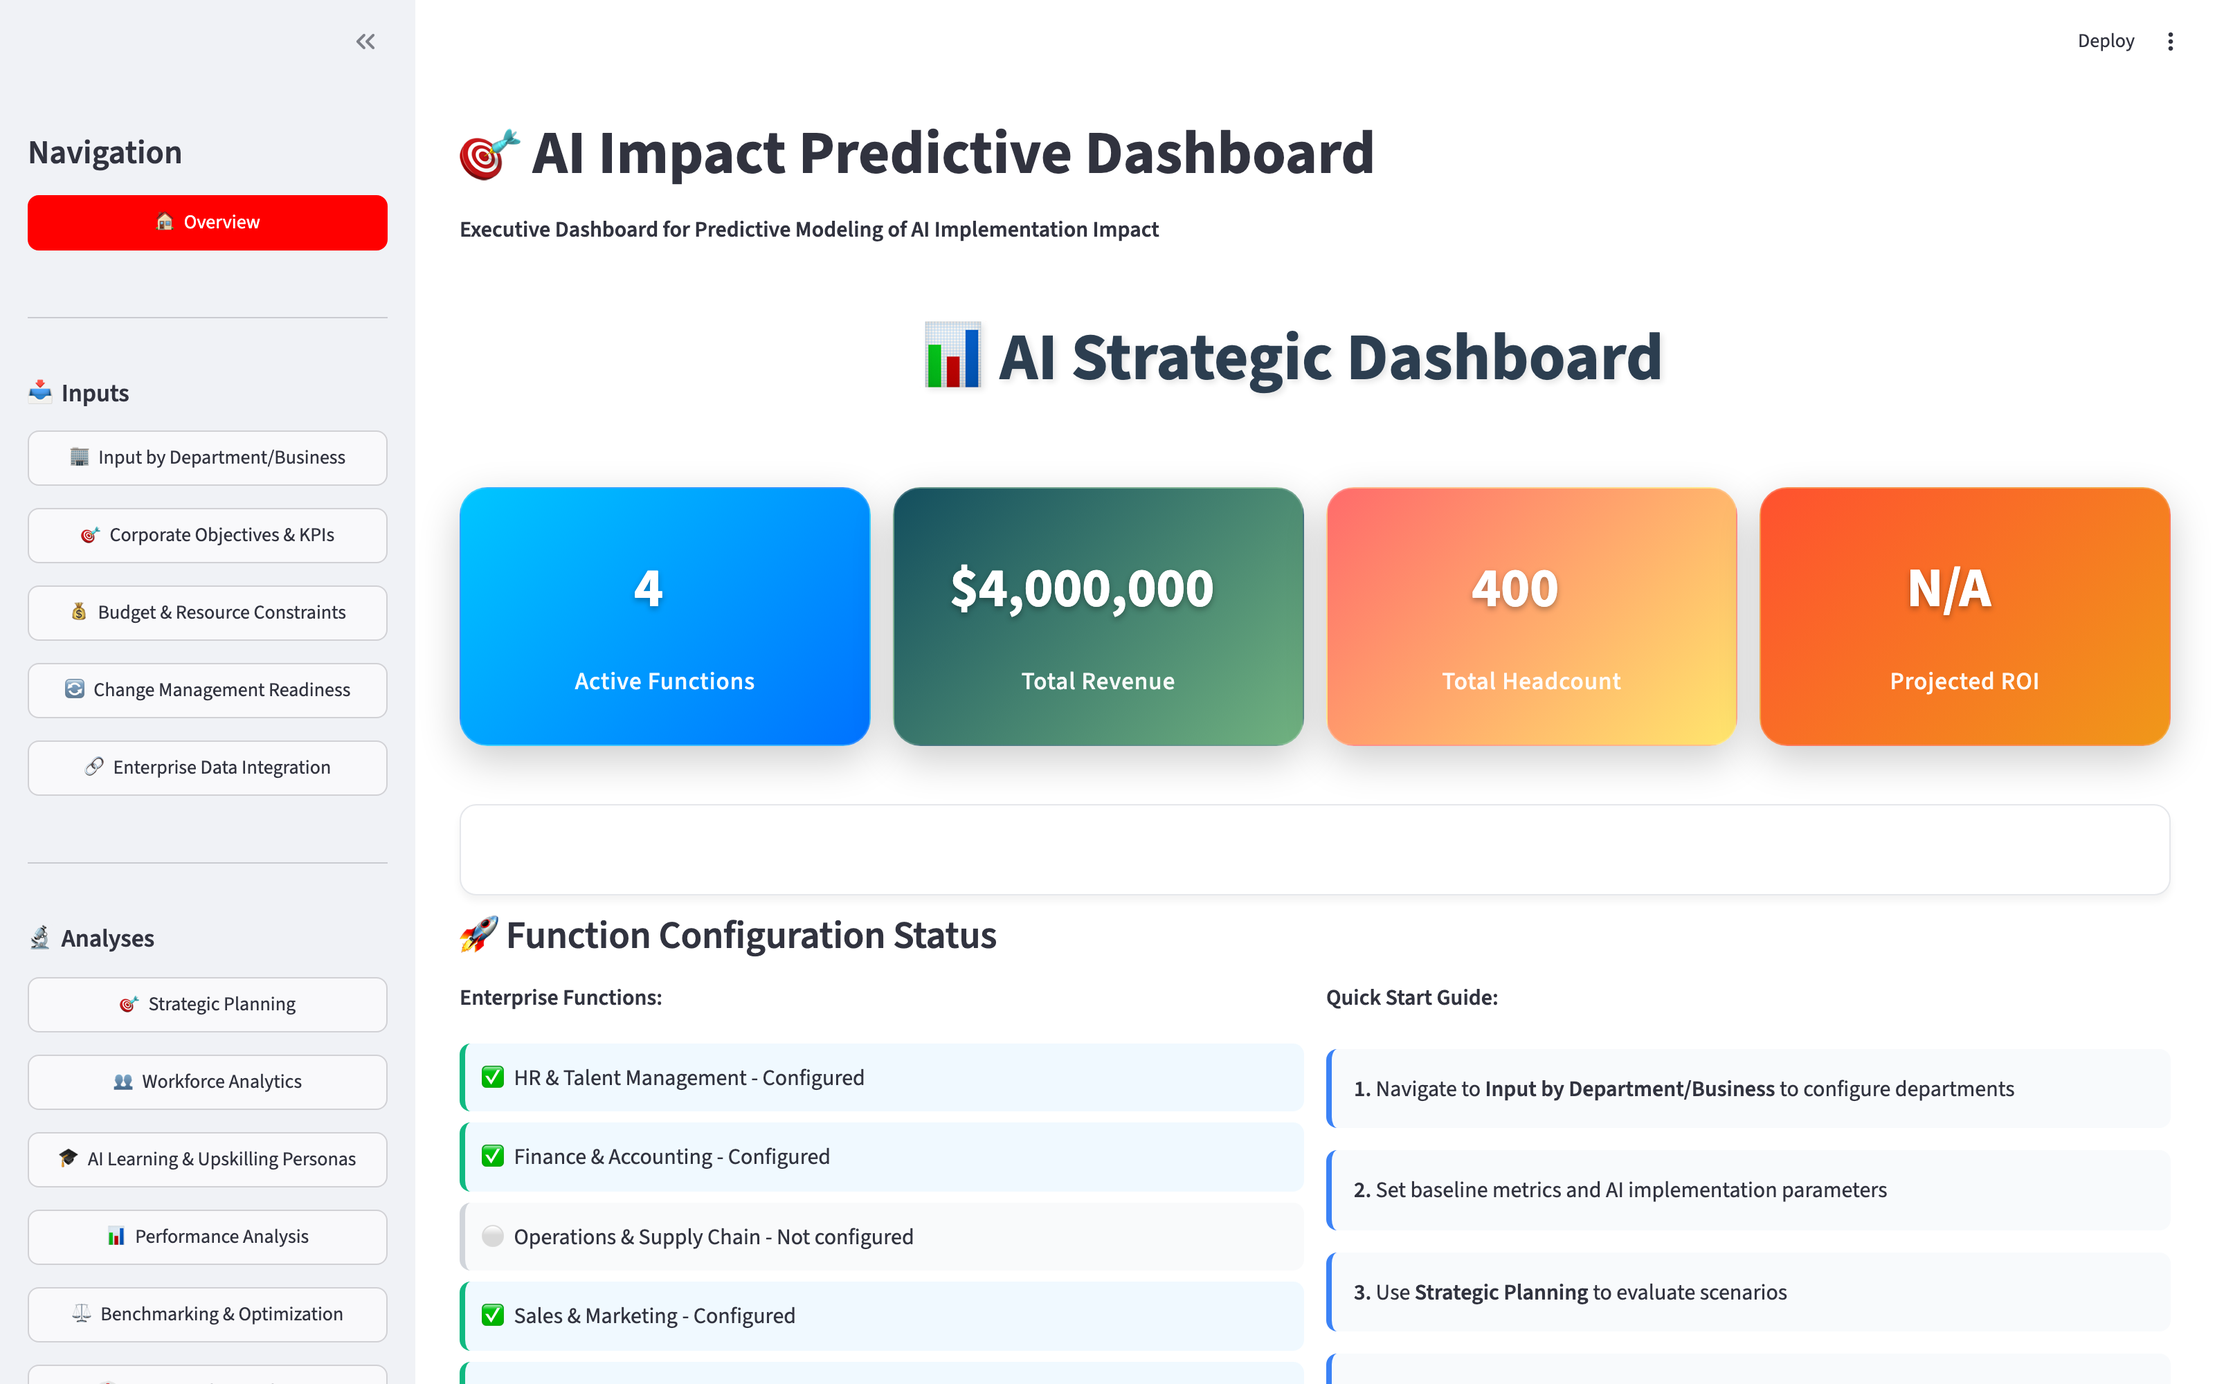
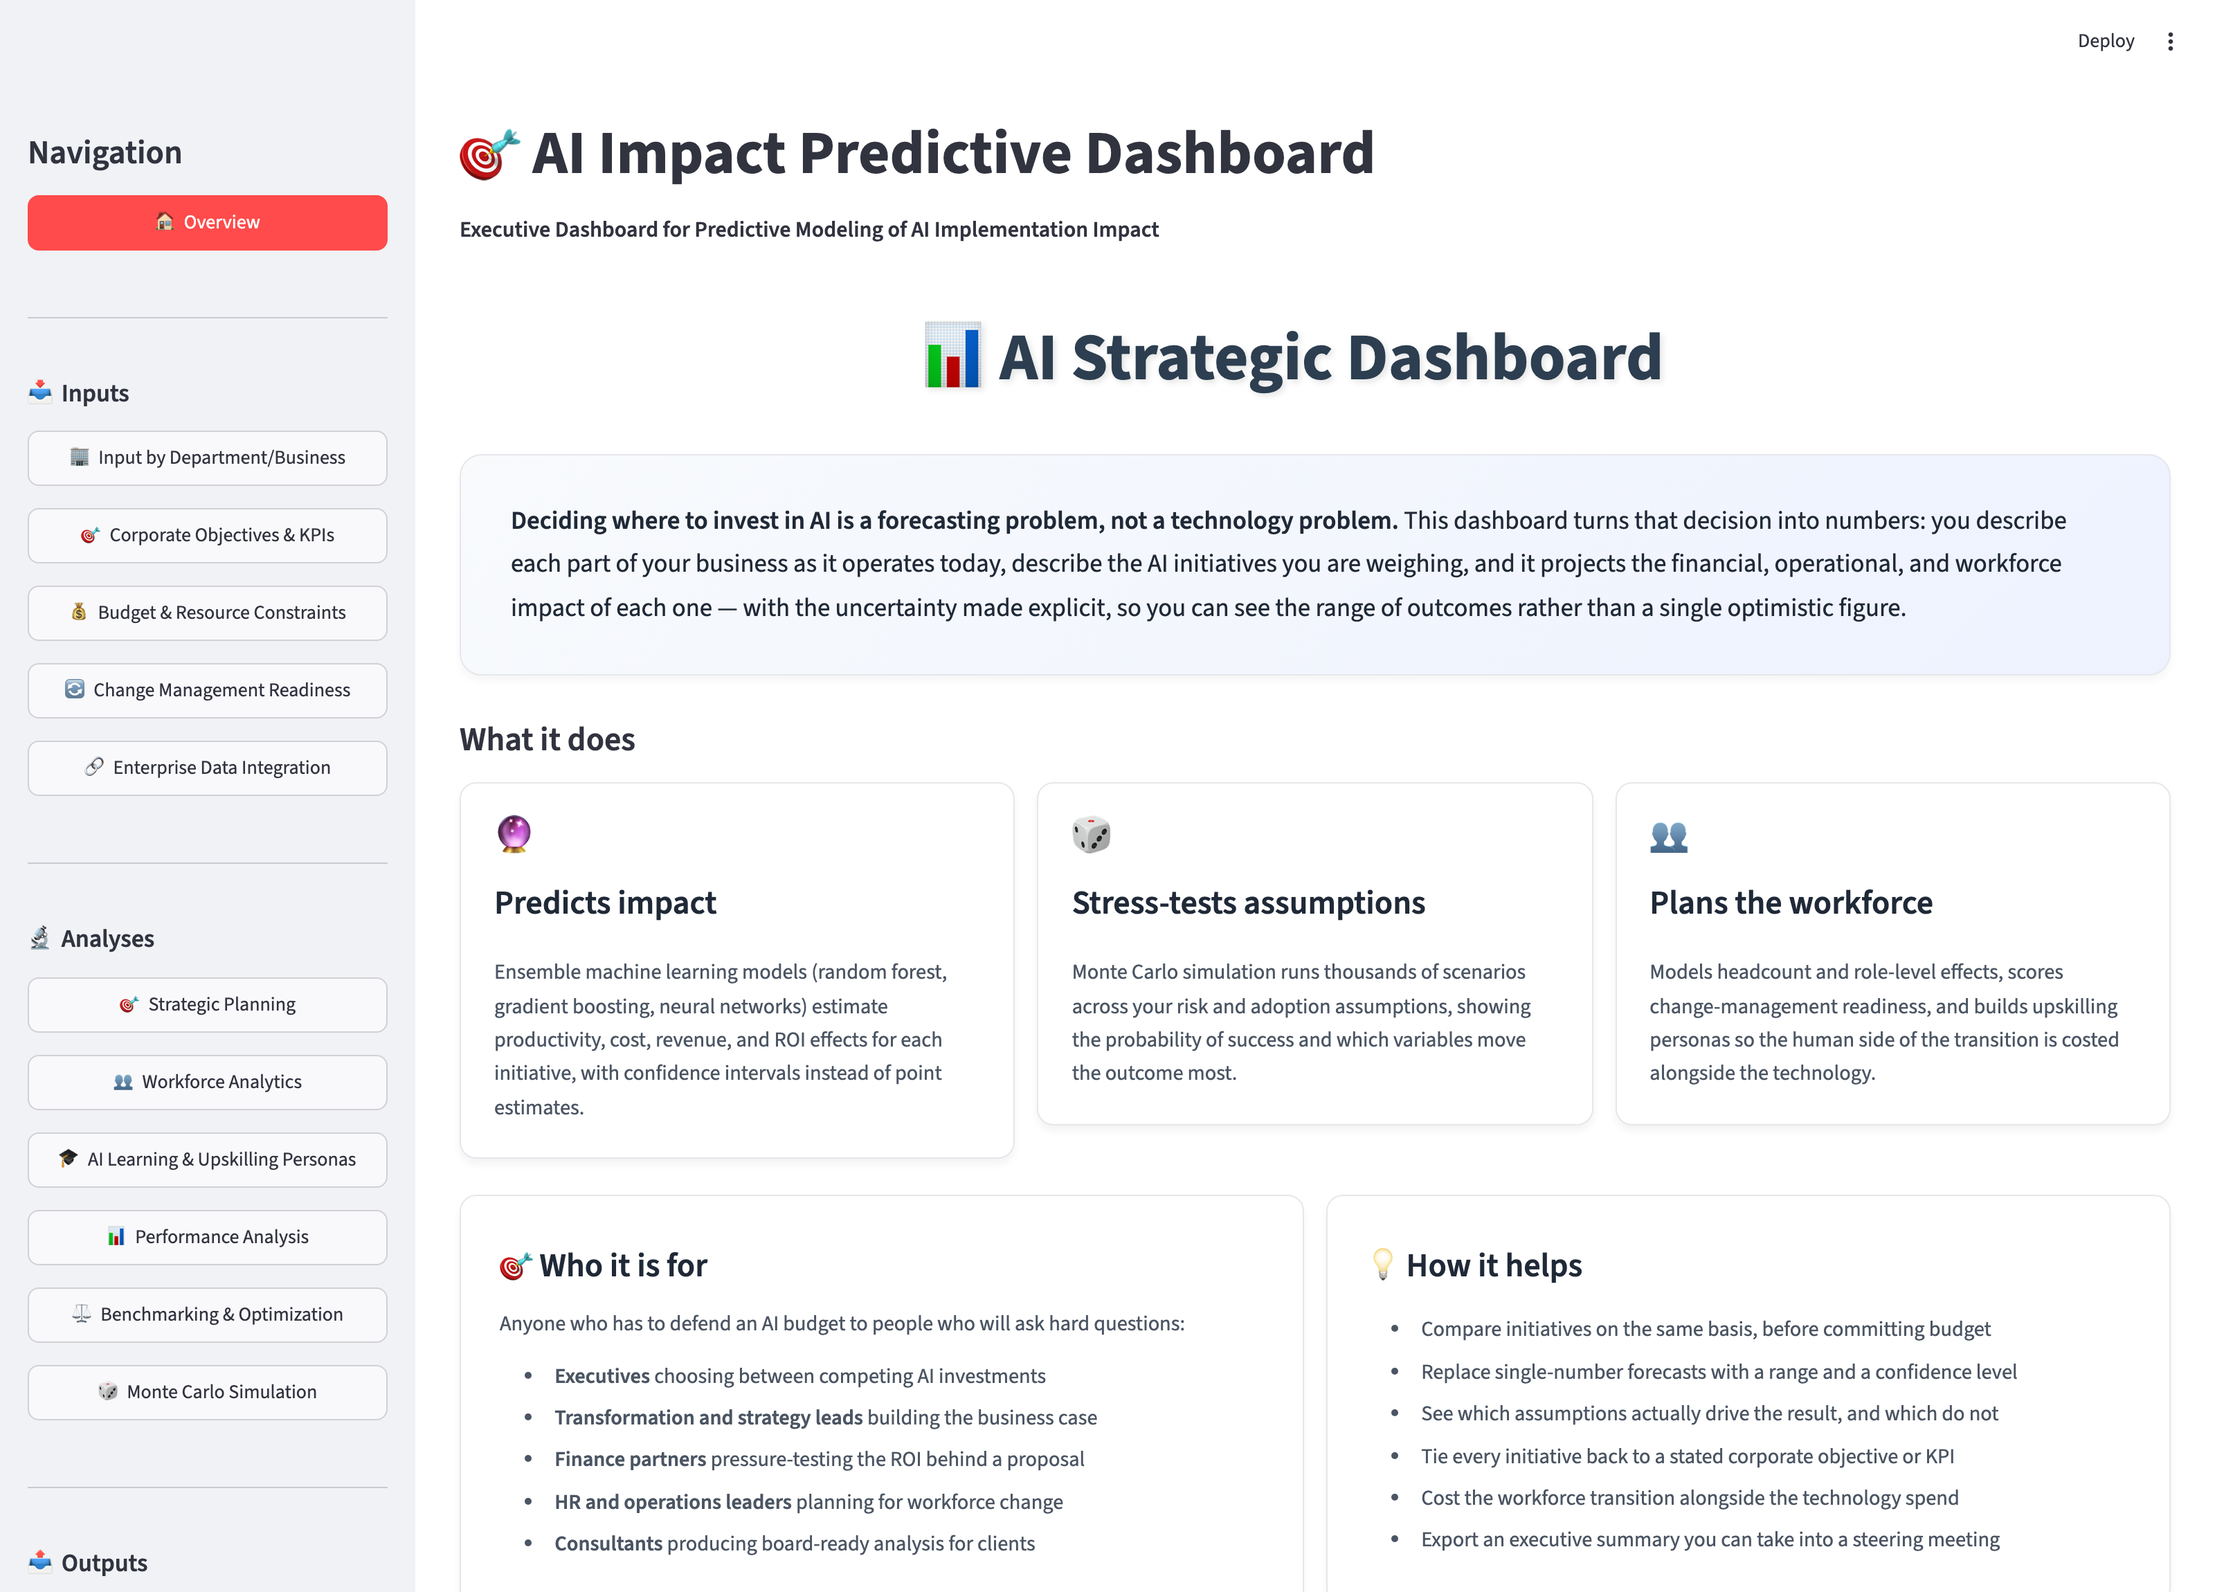
Explain the dashboard on the overview page
A first-time visitor landed on a title, four zeroed metric cards, and a list of
unconfigured functions, with nothing saying what the tool is or why the numbers
were empty. Add an introduction above the metrics covering what the dashboard
does, who it is for, how it helps, and how to work through it, plus a note that
saving a department with its default values is enough to populate everything.

The old Quick Start Guide said the same thing less completely, so drop it and
give the 16-function status list both columns instead of one narrow one, with a
count of how many are configured.

Also remove four orphaned HTML wrappers. Each opened a styled <div> in its own
st.markdown call, which Streamlit closes at the end of that block, so the
matching </div> was dropped and the opener rendered as an empty bordered box
above Function Configuration Status and Performance Overview. Raw HTML cannot
wrap native widgets this way, so the wrappers only ever produced the artifact.

Verified: all 15 navigation targets and their tabs render with 0 server-side
tracebacks, and no raw HTML leaks into the page text.

diff --git a/app.py b/app.py
@@ -297,6 +297,130 @@ def main():
     elif page == "Executive Summary":
         show_executive_summary()
 
+def show_overview_introduction():
+    """Explain what the dashboard is, who it serves, and how to work through it.
+
+    This is the first thing a new visitor sees, and the metric cards below read
+    as zeroes until functions are configured, so the context belongs up front.
+    """
+
+    st.markdown("""
+    <div style="background: linear-gradient(135deg, #f8fafc 0%, #eef2ff 100%);
+                padding: 2rem 2.25rem; border-radius: 16px; border: 1px solid #e5e7eb;
+                box-shadow: 0 4px 6px rgba(0, 0, 0, 0.04); margin-bottom: 1.5rem;">
+        <p style="margin: 0; font-size: 1.15rem; line-height: 1.7; color: #1f2937;">
+            <strong>Deciding where to invest in AI is a forecasting problem, not a technology problem.</strong>
+            This dashboard turns that decision into numbers: you describe each part of your business as it
+            operates today, describe the AI initiatives you are weighing, and it projects the financial,
+            operational, and workforce impact of each one &mdash; with the uncertainty made explicit, so you
+            can see the range of outcomes rather than a single optimistic figure.
+        </p>
+    </div>
+    """, unsafe_allow_html=True)
+
+    st.markdown("#### What it does")
+
+    capability_cards = [
+        ("🔮", "Predicts impact",
+         "Ensemble machine learning models (random forest, gradient boosting, neural networks) "
+         "estimate productivity, cost, revenue, and ROI effects for each initiative, with "
+         "confidence intervals instead of point estimates."),
+        ("🎲", "Stress-tests assumptions",
+         "Monte Carlo simulation runs thousands of scenarios across your risk and adoption "
+         "assumptions, showing the probability of success and which variables move the outcome most."),
+        ("👥", "Plans the workforce",
+         "Models headcount and role-level effects, scores change-management readiness, and builds "
+         "upskilling personas so the human side of the transition is costed alongside the technology."),
+    ]
+
+    cols = st.columns(3)
+    for col, (icon, title, body) in zip(cols, capability_cards):
+        with col:
+            st.markdown(f"""
+            <div style="background: white; padding: 1.5rem; border-radius: 12px; height: 100%;
+                        border: 1px solid #e5e7eb; box-shadow: 0 4px 6px rgba(0, 0, 0, 0.05);">
+                <div style="font-size: 1.75rem; line-height: 1;">{icon}</div>
+                <h4 style="margin: 0.75rem 0 0.5rem 0; color: #1f2937;">{title}</h4>
+                <p style="margin: 0; color: #4b5563; font-size: 0.95rem; line-height: 1.6;">{body}</p>
+            </div>
+            """, unsafe_allow_html=True)
+
+    st.markdown("<br>", unsafe_allow_html=True)
+
+    audience_col, value_col = st.columns(2)
+
+    with audience_col:
+        st.markdown("""
+        <div style="background: white; padding: 1.75rem; border-radius: 12px; height: 100%;
+                    border: 1px solid #e5e7eb; box-shadow: 0 4px 6px rgba(0, 0, 0, 0.05);">
+            <h4 style="margin-top: 0; color: #1f2937;">🎯 Who it is for</h4>
+            <p style="margin: 0 0 0.75rem 0; color: #4b5563; font-size: 0.95rem; line-height: 1.6;">
+                Anyone who has to defend an AI budget to people who will ask hard questions:
+            </p>
+            <ul style="margin: 0; padding-left: 1.1rem; color: #4b5563; font-size: 0.95rem; line-height: 1.8;">
+                <li><strong>Executives</strong> choosing between competing AI investments</li>
+                <li><strong>Transformation and strategy leads</strong> building the business case</li>
+                <li><strong>Finance partners</strong> pressure-testing the ROI behind a proposal</li>
+                <li><strong>HR and operations leaders</strong> planning for workforce change</li>
+                <li><strong>Consultants</strong> producing board-ready analysis for clients</li>
+            </ul>
+        </div>
+        """, unsafe_allow_html=True)
+
+    with value_col:
+        st.markdown("""
+        <div style="background: white; padding: 1.75rem; border-radius: 12px; height: 100%;
+                    border: 1px solid #e5e7eb; box-shadow: 0 4px 6px rgba(0, 0, 0, 0.05);">
+            <h4 style="margin-top: 0; color: #1f2937;">💡 How it helps</h4>
+            <ul style="margin: 0; padding-left: 1.1rem; color: #4b5563; font-size: 0.95rem; line-height: 1.8;">
+                <li>Compare initiatives on the same basis, before committing budget</li>
+                <li>Replace single-number forecasts with a range and a confidence level</li>
+                <li>See which assumptions actually drive the result, and which do not</li>
+                <li>Tie every initiative back to a stated corporate objective or KPI</li>
+                <li>Cost the workforce transition alongside the technology spend</li>
+                <li>Export an executive summary you can take into a steering meeting</li>
+            </ul>
+        </div>
+        """, unsafe_allow_html=True)
+
+    st.markdown("<br>", unsafe_allow_html=True)
+
+    st.markdown("#### How to use it")
+    st.markdown("""
+    <div style="background: white; padding: 1.75rem; border-radius: 12px;
+                border: 1px solid #e5e7eb; box-shadow: 0 4px 6px rgba(0, 0, 0, 0.05);">
+        <p style="margin: 0 0 1rem 0; color: #4b5563; font-size: 0.95rem; line-height: 1.6;">
+            Work down the sidebar in order. Each stage builds on the one before it, and the
+            metrics on this page fill in as you go. Nothing is required up front &mdash; every
+            input has a sensible default you can adjust later.
+        </p>
+        <ol style="margin: 0; padding-left: 1.2rem; color: #4b5563; font-size: 0.95rem; line-height: 1.9;">
+            <li><strong>Inputs</strong> &mdash; describe a department under
+                <em>Input by Department/Business</em>: headcount, revenue, costs, and current
+                productivity. Add the AI initiatives you are considering for it. Repeat for each
+                department you want in scope.</li>
+            <li><strong>Context</strong> &mdash; set what success means and what limits you, using
+                <em>Corporate Objectives &amp; KPIs</em>, <em>Budget &amp; Resource Constraints</em>,
+                and <em>Change Management Readiness</em>.</li>
+            <li><strong>Analyses</strong> &mdash; run <em>Strategic Planning</em> for scenarios,
+                <em>Monte Carlo Simulation</em> for the probability of hitting your targets,
+                <em>Workforce Analytics</em> for the people impact, and
+                <em>Benchmarking &amp; Optimization</em> to compare against industry norms.</li>
+            <li><strong>Outputs</strong> &mdash; review <em>Dynamic Visualizations</em> and generate an
+                <em>Executive Summary</em> to share.</li>
+        </ol>
+        <p style="margin: 1rem 0 0 0; color: #6b7280; font-size: 0.9rem; line-height: 1.6;">
+            Exploring rather than modelling your own organisation? Open
+            <em>Input by Department/Business</em>, pick any department, and save it with the
+            defaults already filled in &mdash; that is enough to light up the rest of the dashboard.
+        </p>
+    </div>
+    """, unsafe_allow_html=True)
+
+    st.markdown("<br>", unsafe_allow_html=True)
+    st.markdown("---")
+
+
 def show_overview():
     # Add modern background styling
     st.markdown("""
@@ -316,12 +440,14 @@ def show_overview():
     """, unsafe_allow_html=True)
     
     st.markdown("""
-    <h1 style="text-align: center; color: #2c3e50; font-size: 3rem; font-weight: 700; 
-               text-shadow: 2px 2px 4px rgba(0,0,0,0.1); margin-bottom: 2rem;">
+    <h1 style="text-align: center; color: #2c3e50; font-size: 3rem; font-weight: 700;
+               text-shadow: 2px 2px 4px rgba(0,0,0,0.1); margin-bottom: 1.5rem;">
         📊 AI Strategic Dashboard
     </h1>
     """, unsafe_allow_html=True)
-    
+
+    show_overview_introduction()
+
     # Modern metrics cards with gradient styling
     col1, col2, col3, col4 = st.columns(4)
     
@@ -364,69 +490,49 @@ def show_overview():
     
     st.markdown("<br>", unsafe_allow_html=True)
     
-    # Enhanced function status in styled cards
-    st.markdown("""
-    <div style="background: white; padding: 2rem; border-radius: 12px; 
-                box-shadow: 0 4px 6px rgba(0, 0, 0, 0.05); border: 1px solid #e5e7eb;">
-    """, unsafe_allow_html=True)
-    
     st.subheader("🚀 Function Configuration Status")
     
+    functions = ["HR & Talent Management", "Finance & Accounting", "Operations & Supply Chain",
+                "Sales & Marketing", "IT & Technology", "Customer Service", "Legal & Compliance", "R&D",
+                "Manufacturing & Production", "Quality Assurance", "Business Development", "Strategy & Planning",
+                "Risk Management", "Procurement", "Facilities Management", "Data & Analytics"]
+
+    configured_count = sum(1 for func in functions if func in st.session_state.baseline_data)
+    st.caption(
+        f"{configured_count} of {len(functions)} functions configured — "
+        "add one from **Input by Department/Business** in the sidebar."
+    )
+
+    def render_function_status(func):
+        """Render one function's configuration state as a styled row."""
+        if func in st.session_state.baseline_data:
+            background, border, marker, state = "#f0f9ff", "#10b981", "✅", "Configured"
+        else:
+            background, border, marker, state = "#f9fafb", "#d1d5db", "⚪", "Not configured"
+        st.markdown(f"""
+        <div style="background: {background}; padding: 0.75rem; border-radius: 8px;
+                    margin: 0.25rem 0; border-left: 4px solid {border};">
+            {marker} {func} - {state}
+        </div>
+        """, unsafe_allow_html=True)
+
+    # Split the list across both columns so it stays readable instead of running
+    # down one narrow column.
+    midpoint = (len(functions) + 1) // 2
     col1, col2 = st.columns(2)
-    
+
     with col1:
-        st.markdown("**Enterprise Functions:**")
-        functions = ["HR & Talent Management", "Finance & Accounting", "Operations & Supply Chain", 
-                    "Sales & Marketing", "IT & Technology", "Customer Service", "Legal & Compliance", "R&D",
-                    "Manufacturing & Production", "Quality Assurance", "Business Development", "Strategy & Planning",
-                    "Risk Management", "Procurement", "Facilities Management", "Data & Analytics"]
-        
-        for func in functions:
-            if func in st.session_state.baseline_data:
-                st.markdown(f"""
-                <div style="background: #f0f9ff; padding: 0.75rem; border-radius: 8px; 
-                            margin: 0.25rem 0; border-left: 4px solid #10b981;">
-                    ✅ {func} - Configured
-                </div>
-                """, unsafe_allow_html=True)
-            else:
-                st.markdown(f"""
-                <div style="background: #f9fafb; padding: 0.75rem; border-radius: 8px; 
-                            margin: 0.25rem 0; border-left: 4px solid #d1d5db;">
-                    ⚪ {func} - Not configured
-                </div>
-                """, unsafe_allow_html=True)
-    
+        for func in functions[:midpoint]:
+            render_function_status(func)
+
     with col2:
-        st.markdown("**Quick Start Guide:**")
-        # These render inside an HTML block below, so emphasis has to be markup
-        # rather than markdown -- "**bold**" would show up as literal asterisks.
-        steps = [
-            "Navigate to <strong>Input by Department/Business</strong> to configure departments",
-            "Set baseline metrics and AI implementation parameters",
-            "Use <strong>Strategic Planning</strong> to evaluate scenarios",
-            "Review <strong>Workforce Analytics</strong> for impact assessment",
-            "Generate <strong>Executive Summary</strong> for stakeholder presentations"
-        ]
-        
-        for i, step in enumerate(steps, 1):
-            st.markdown(f"""
-            <div style="background: #f8fafc; padding: 1rem; border-radius: 8px; 
-                        margin: 0.5rem 0; border-left: 4px solid #3b82f6;">
-                <strong>{i}.</strong> {step}
-            </div>
-            """, unsafe_allow_html=True)
+        for func in functions[midpoint:]:
+            render_function_status(func)
     
-    st.markdown("</div>", unsafe_allow_html=True)
     
     # Performance visualization if data exists
     if len(st.session_state.baseline_data) > 0:
         st.markdown("<br>", unsafe_allow_html=True)
-        st.markdown("""
-        <div style="background: white; padding: 2rem; border-radius: 12px; 
-                    box-shadow: 0 4px 6px rgba(0, 0, 0, 0.05); border: 1px solid #e5e7eb;">
-        """, unsafe_allow_html=True)
-        
         st.subheader("📈 Performance Overview")
         
         # Create enhanced performance visualization
@@ -493,7 +599,6 @@ def show_overview():
         fig.update_yaxes(gridcolor='rgba(0,0,0,0.1)')
         
         st.plotly_chart(fig, use_container_width=True)
-        st.markdown("</div>", unsafe_allow_html=True)
 
 def show_function_analysis():
     st.header("🏢 Function Analysis")
